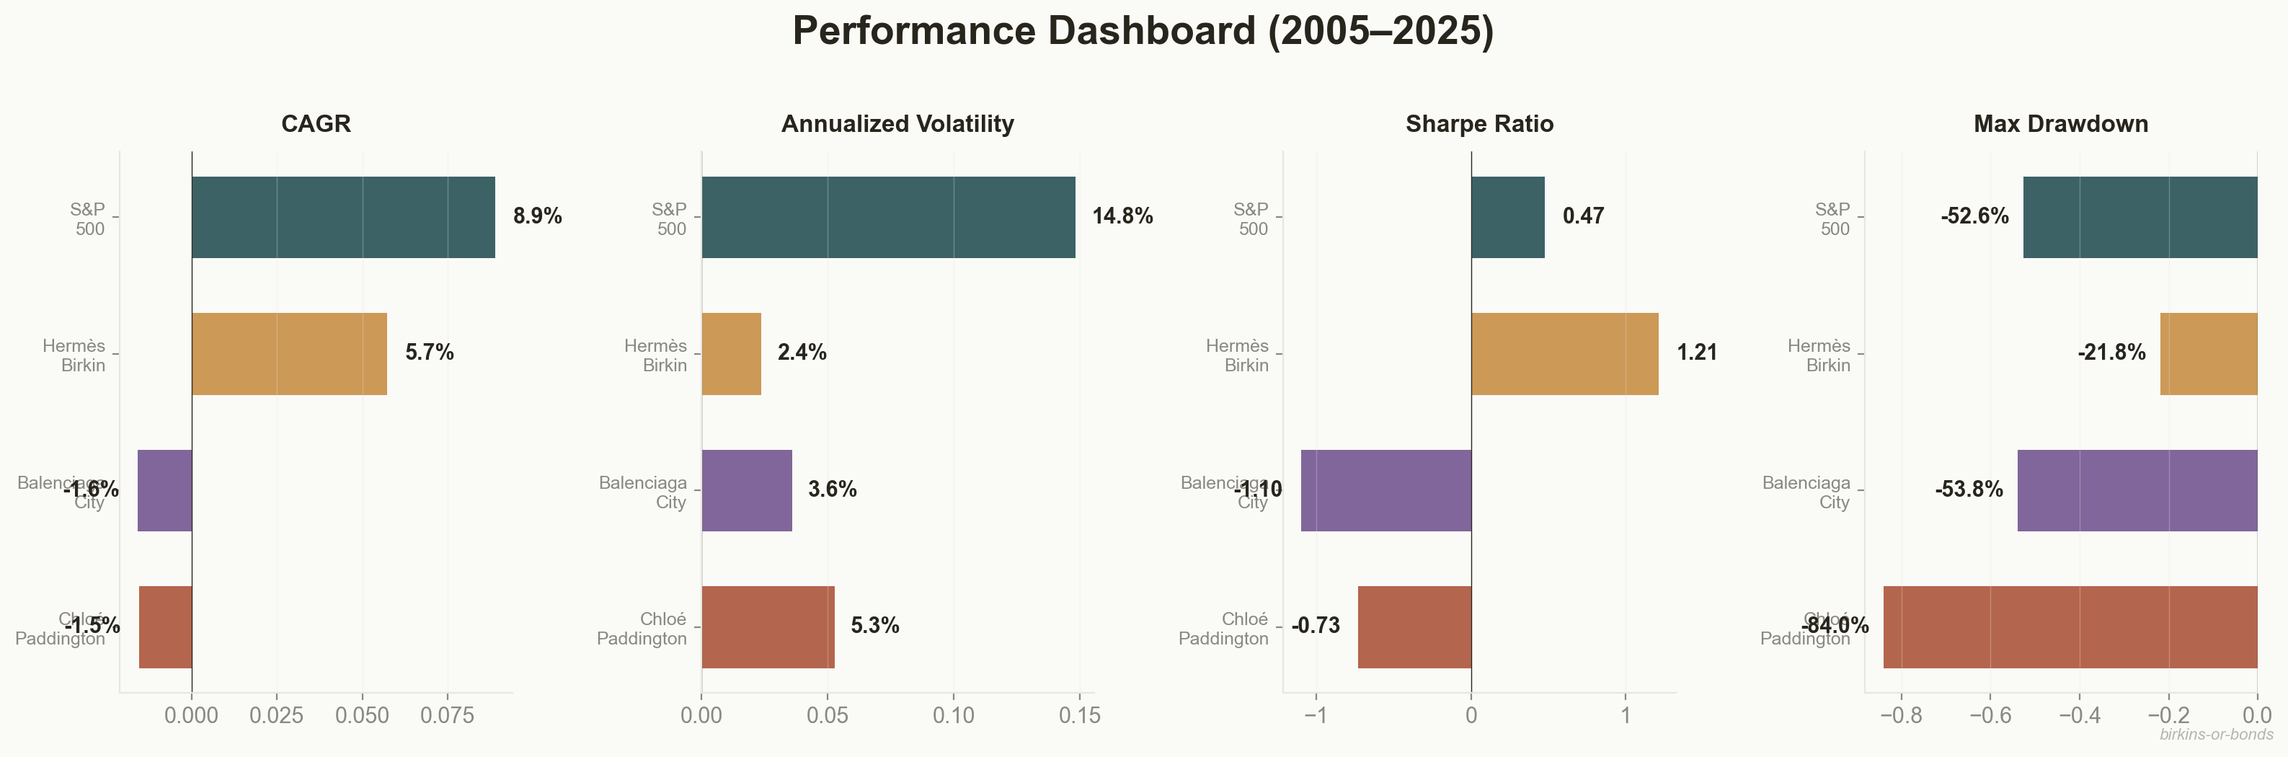
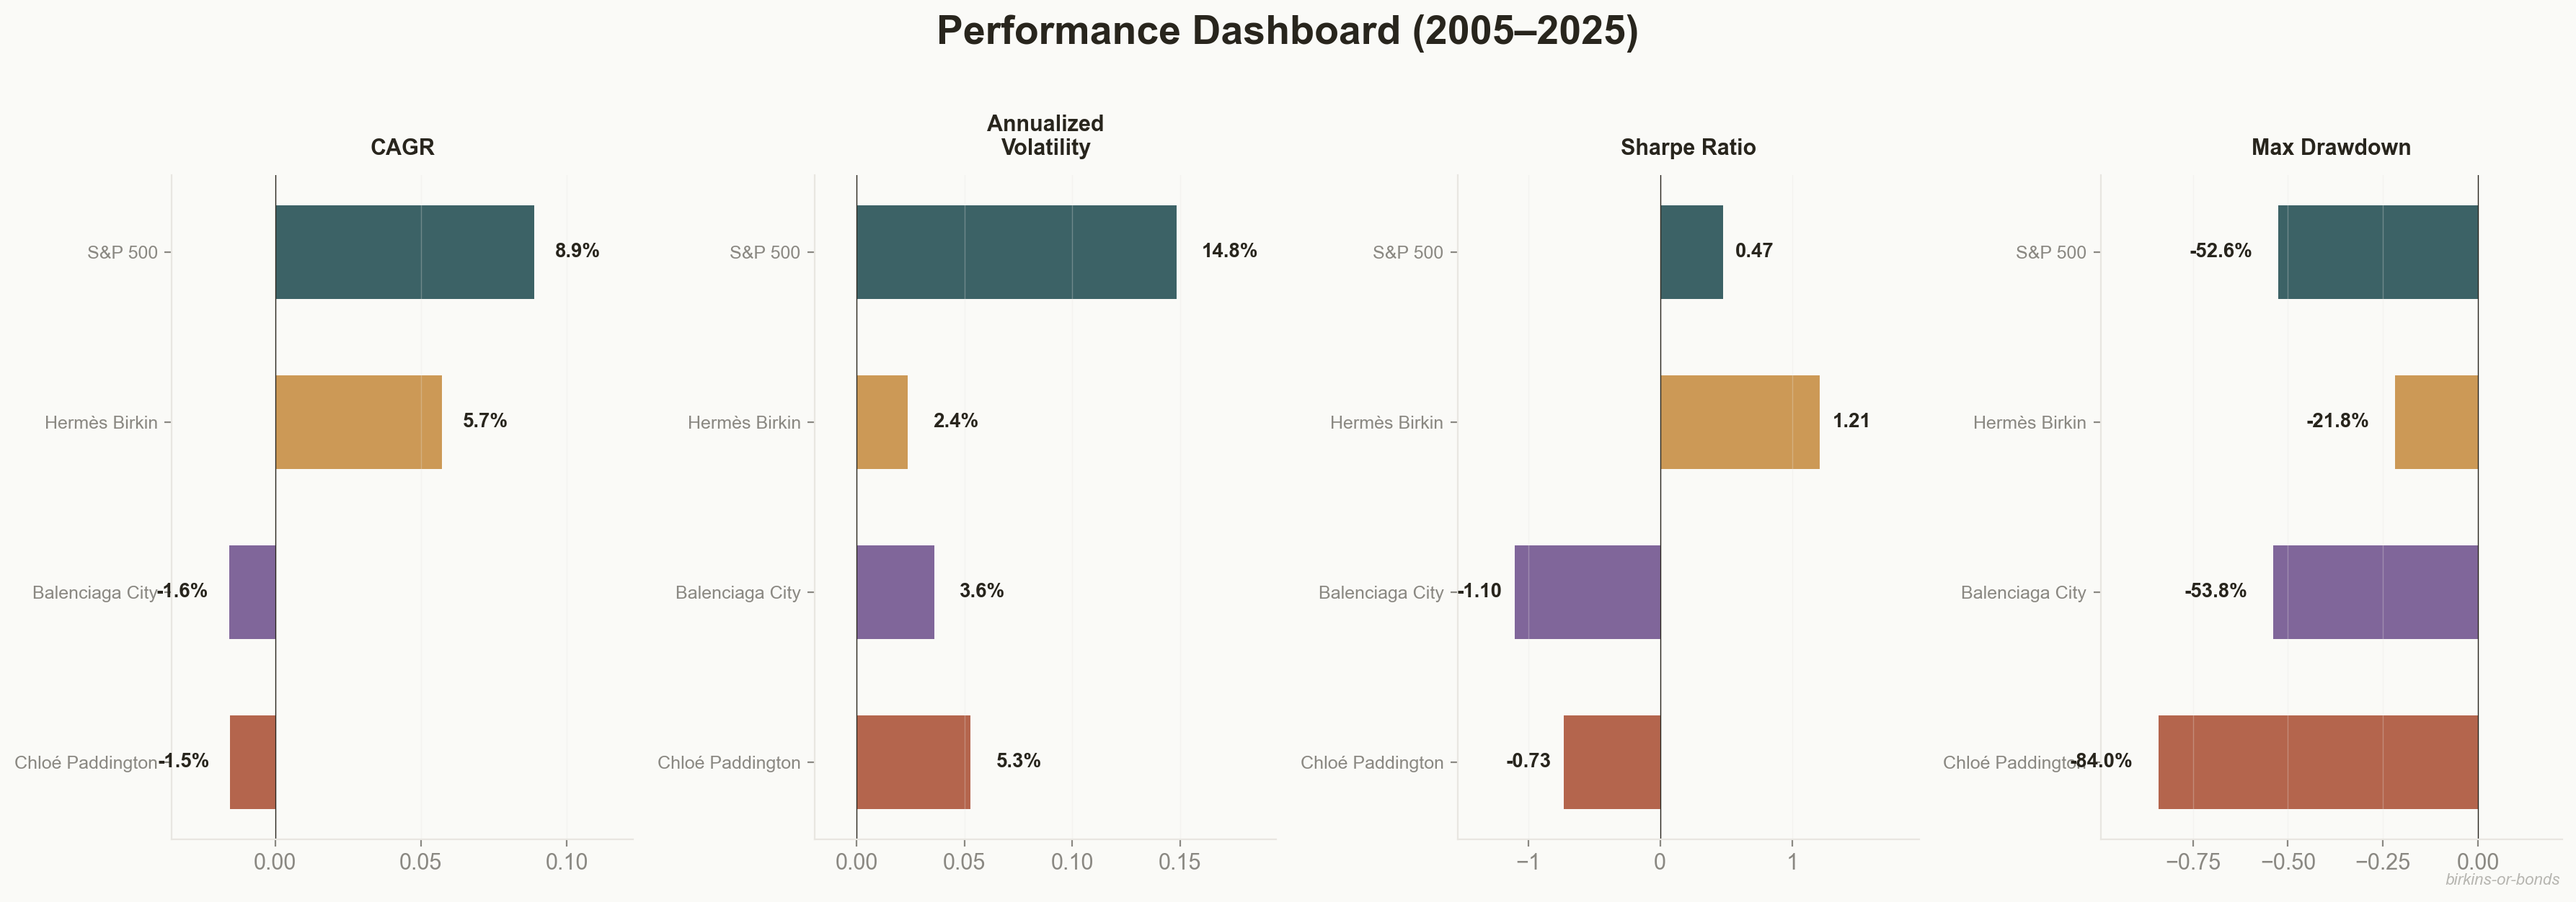
Fix dashboard label overlap and PDF image aspect ratios

diff --git a/src/visualizations.py b/src/visualizations.py
@@ -259,44 +259,49 @@ def plot_correlation_heatmap(monthly, save=True):
 def plot_summary_dashboard(stats_df, save=True):
     """KPI-style dashboard comparing key metrics."""
     setup_style()
-    fig, axes = plt.subplots(1, 4, figsize=(16, 5))
+    fig, axes = plt.subplots(1, 4, figsize=(18, 6))
     fig.suptitle("Performance Dashboard (2005–2025)", fontsize=20,
                  fontweight="bold", y=1.02)
 
     metrics = [
         ("cagr", "CAGR", "{:.1%}"),
-        ("volatility", "Annualized Volatility", "{:.1%}"),
+        ("volatility", "Annualized\nVolatility", "{:.1%}"),
         ("sharpe", "Sharpe Ratio", "{:.2f}"),
         ("max_drawdown", "Max Drawdown", "{:.1%}"),
     ]
 
     for ax, (metric, title, fmt) in zip(axes, metrics):
         values = [stats_df.loc[a, metric] for a in ASSET_ORDER]
-        colors = [COLORS[a] for a in ASSET_ORDER]
-        labels = [ASSET_LABELS[a].replace(" ", "\n") for a in ASSET_ORDER]
+        colors_list = [COLORS[a] for a in ASSET_ORDER]
+        labels = [ASSET_LABELS[a] for a in ASSET_ORDER]
 
-        bars = ax.barh(range(len(ASSET_ORDER)), values, color=colors, alpha=0.85,
-                       height=0.6)
+        bars = ax.barh(range(len(ASSET_ORDER)), values, color=colors_list, alpha=0.85,
+                       height=0.55)
 
+        val_range = max(abs(max(values)), abs(min(values)))
         for i, (bar, val) in enumerate(zip(bars, values)):
             x_pos = bar.get_width()
             ha = "left" if x_pos >= 0 else "right"
-            offset = abs(max(values) - min(values)) * 0.05
+            offset = val_range * 0.08
             if x_pos >= 0:
                 x_pos += offset
             else:
                 x_pos -= offset
             ax.text(x_pos, i, fmt.format(val), va="center", ha=ha,
-                    fontsize=11, fontweight="bold", color=COLORS["text"])
+                    fontsize=10, fontweight="bold", color=COLORS["text"])
 
         ax.set_yticks(range(len(ASSET_ORDER)))
         ax.set_yticklabels(labels, fontsize=9)
-        ax.set_title(title, fontsize=12, fontweight="bold", pad=10)
+        ax.set_title(title, fontsize=11, fontweight="bold", pad=10)
         ax.axvline(x=0, color=COLORS["text"], linewidth=0.5)
         ax.grid(True, axis="x", alpha=0.3)
         ax.spines["top"].set_visible(False)
         ax.spines["right"].set_visible(False)
         ax.invert_yaxis()
+        # Add padding so labels don't overlap bars
+        x_min, x_max = ax.get_xlim()
+        padding = (x_max - x_min) * 0.25
+        ax.set_xlim(x_min - padding * 0.5, x_max + padding)
 
     add_branding(fig)
     plt.tight_layout()

diff --git a/src/generate_report.py b/src/generate_report.py
@@ -108,10 +108,14 @@ def make_table(data, col_widths=None):
 
 
 def add_chart(elements, filename, caption, styles, width=6.5*inch):
-    """Add a chart image with caption."""
+    """Add a chart image with caption, preserving aspect ratio."""
     img_path = IMG_DIR / filename
     if img_path.exists():
-        img = Image(str(img_path), width=width, height=width * 0.55)
+        from PIL import Image as PILImage
+        with PILImage.open(str(img_path)) as pil_img:
+            orig_w, orig_h = pil_img.size
+        aspect = orig_h / orig_w
+        img = Image(str(img_path), width=width, height=width * aspect)
         elements.append(img)
         elements.append(Paragraph(caption, styles["Caption"]))
     else:
